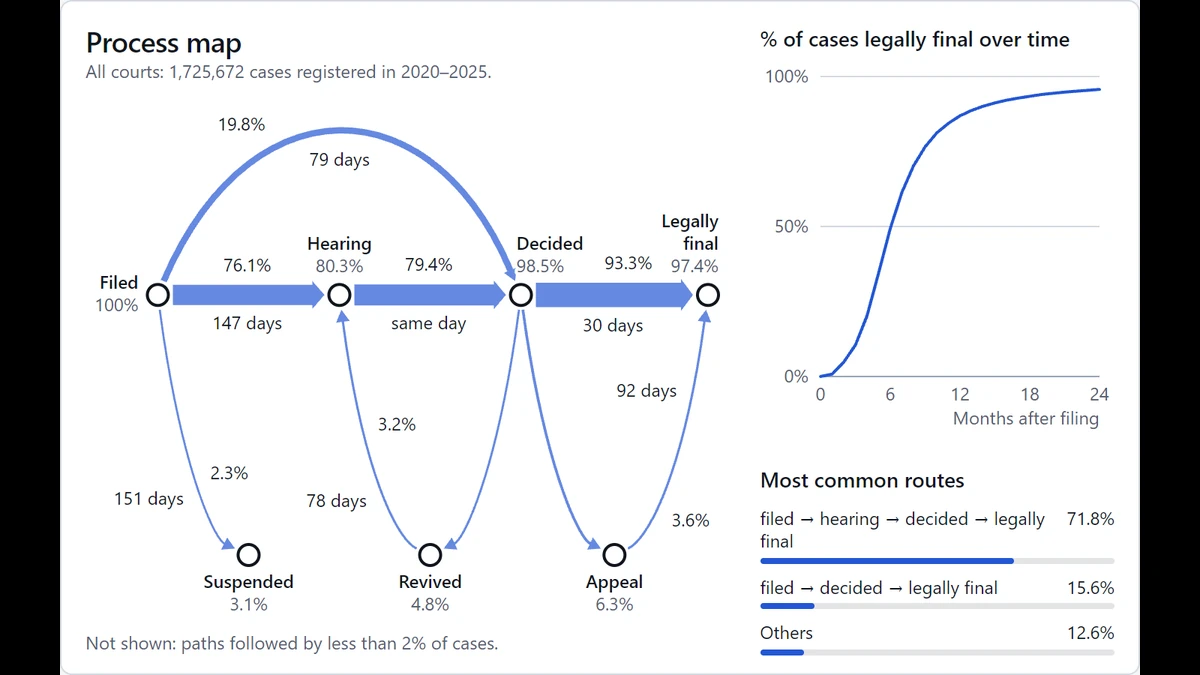
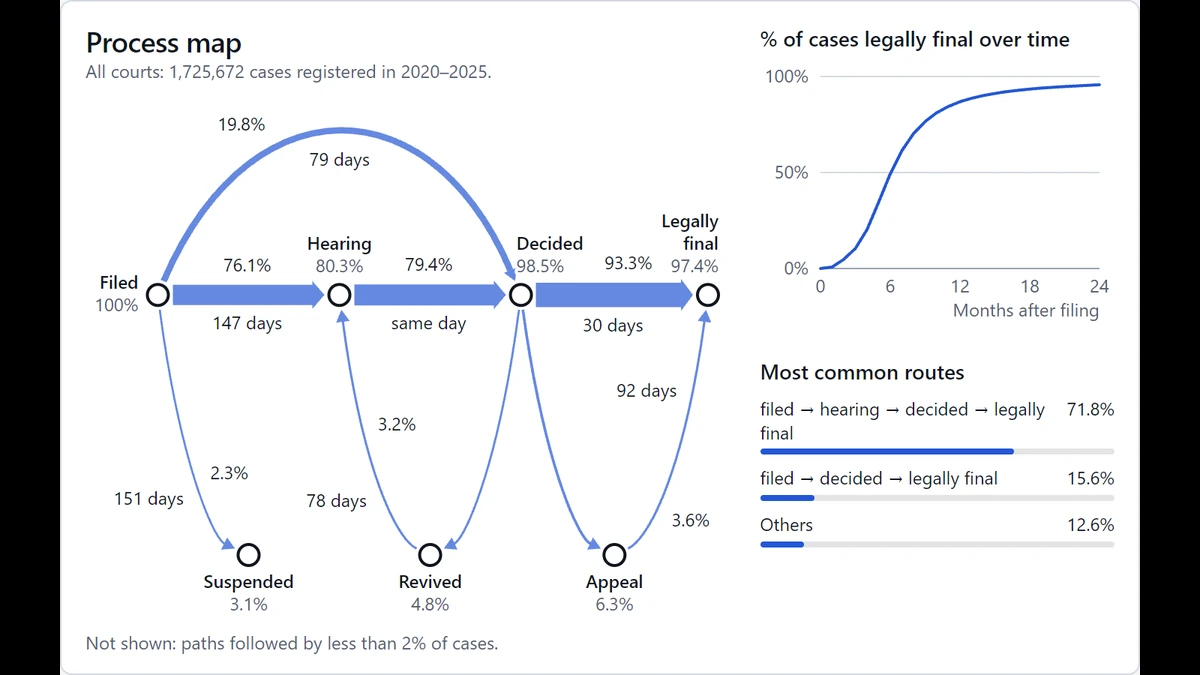
Process map: the curve in the top half of the column, with its vertical line back

diff --git a/demo/src/views/map.js b/demo/src/views/map.js
@@ -44,8 +44,8 @@ export function createMap(host, data) {
     h('div', { class: 'sd-map-flow' },
       h('div', { class: 'sd-case' }, h('p', { class: 'sd-case-title' }, 'Process map'), meta), mapBox, rest),
     h('div', { class: 'sd-curves' },
-      h('p', { class: 'sd-cal-title' }, '% of cases legally final over time'), legend, curveBox,
-      h('p', { class: 'sd-cal-title sd-routes-title', id: 'sd-routes-title' }, 'Most common routes'), routeList),
+      h('div', { class: 'sd-half' }, h('p', { class: 'sd-cal-title' }, '% of cases legally final over time'), legend, curveBox),
+      h('div', { class: 'sd-half' }, h('p', { class: 'sd-cal-title', id: 'sd-routes-title' }, 'Most common routes'), routeList)),
     table);
   host.append(el);
   let curve = null; // what reading the curve needs
@@ -308,8 +308,8 @@ export function createMap(host, data) {
     return { lines, x, y, reading, ticks, left: margin.left, right: width - margin.right };
   }
 
-  // Reading the curve: at the nearest month, a dot on each line and its value on the y axis, with a
-  // faint line between them. The axis's own labels make way.
+  // Reading the curve: at the nearest month, a line up the chart, a dot on each line and its value on the
+  // y axis, with a faint line between them. The axis's own labels make way.
   curveSvg.addEventListener('pointermove', (event) => {
     if (!curve) return;
     const box = curveSvg.getBoundingClientRect();
@@ -321,11 +321,12 @@ export function createMap(host, data) {
     const { x, y, lines, ticks, left } = curve;
     const values = lines.map(({ series, dot }) => ({ value: series[month], at: y(series[month]), dot }));
     const labels = spread(values.map(({ at }) => at), LINE);
-    curve.reading.replaceChildren(...values.flatMap(({ value, at, dot }, i) => [
-      s('line', { class: 'sd-reading-line', x1: left, x2: x(month), y1: at, y2: at }),
-      s('circle', { class: dot, cx: x(month), cy: at, r: 4 }),
-      s('text', { class: 'sd-reading-value', x: left - 8, y: labels[i], dy: '0.32em', 'text-anchor': 'end' }, describe.percent(value)),
-    ]));
+    curve.reading.replaceChildren(
+      s('line', { class: 'sd-cross-line', x1: x(month), x2: x(month), y1: y(1), y2: y(0) }),
+      ...values.map(({ at }) => s('line', { class: 'sd-reading-line', x1: left, x2: x(month), y1: at, y2: at })),
+      ...values.map(({ at, dot }) => s('circle', { class: dot, cx: x(month), cy: at, r: 4 })),
+      ...values.map(({ value }, i) => s('text', { class: 'sd-reading-value', x: left - 8, y: labels[i], dy: '0.32em', 'text-anchor': 'end' }, describe.percent(value))),
+    );
     for (const { tick, at } of ticks) tick.classList.toggle('is-under', labels.some((label) => Math.abs(label - at) < LINE));
   });
   curveSvg.addEventListener('pointerleave', clearReading);

diff --git a/demo/src/demo.css b/demo/src/demo.css
@@ -568,22 +568,24 @@
   min-height: 0;
 }
 
-/* The curve takes what the most common routes leave of the column. */
+/* The curve in the top half of the column, the most common routes in the bottom half, with room to spare. */
 [data-demo] .sd-curves {
+  display: grid;
+  grid-template-rows: minmax(0, 1fr) minmax(0, 1fr);
+  gap: var(--space-5);
+  min-width: 0;
+  min-height: 0;
+}
+
+[data-demo] .sd-half {
   display: flex;
   flex-direction: column;
   gap: var(--space-2);
-  min-width: 0;
   min-height: 0;
 }
 
 [data-demo] .sd-curve-box {
   flex: 1 1 0;
-  min-height: 7rem;
-}
-
-[data-demo] .sd-routes-title {
-  margin-top: var(--space-4);
 }
 
 [data-demo] .sd-routes {
@@ -763,6 +765,10 @@
 
   [data-demo] .sd-map-box {
     height: 24rem;
+  }
+
+  [data-demo] .sd-curves {
+    grid-template-rows: auto auto;
   }
 
   [data-demo] .sd-curve-box {

diff --git a/docs/plan.md b/docs/plan.md
@@ -284,7 +284,7 @@ Compare national and court intake with the Ministry of Justice's official statis
 | Forecast | Pick a court, then a real past case from its menu (or at random), or "Custom case", and give its filing date, its events and the date of the forecast. It shows the case's history so far and the chances it ends within 1, 3, 6 and 12 months. For a real case, it also shows what happened next. |
 | How well it does | Dropped from the demo on 2026-11-26 (Mark), with the "Show" switch it had: Mark may bring it back somewhere else. The export still carries the scores and calibration. |
 | Process map | A flow diagram of the stages a civil case passes through (Mark, 2026-11-26): the usual route along a row; filing to a decision in an arc over the hearing; suspensions, revivals and appeals each at the bottom of an arc below the row, between the stages they join. Only moves made by at least 2% of cases are drawn, each as wide as its share, with its share on one side and its median wait on the other, where they're plainly its own, and otherwise only on hover; a line under it says the rest aren't shown. Hovering an arrow dims everything but it, its labels and its two stages; hovering a stage, everything but its arrows. |
-| Share legally final, and routes | Beside the diagram, from the top of the stage: the share of cases legally final t months after filing, for the selected court against all courts (Mark, 2026-11-26: legally final only, not decided), read off the y axis on hover; and under it the routes taken by more than 5% of cases, each with a bar for its share, then all others together. |
+| Share legally final, and routes | Beside the diagram, from the top of the stage: in the top half, the share of cases legally final t months after filing, for the selected court against all courts (Mark, 2026-11-26: legally final only, not decided), read off the y axis on hover; and in the bottom half the routes taken by more than 5% of cases, each with a bar for its share, then all others together. |
 | Court selector | Two drop-downs, with no typing (Mark, 2026-11-26): the type of court (okresní, obvodní or městský soud), then its location, listing only that type's. The Process map also offers all courts; the Forecast tab always has a court. The selection is shared by the tabs. |
 | Courts (step 10) | A map of the district courts (see "Open questions" for areas or seats), coloured by the chosen measure: cases registered per year, backlog, or median time to a decision. Clicking a court selects it. |
 | Court panel (step 10) | For the selected court: exact intake by year beside the German tank estimate and its interval, and its backlog. |
@@ -907,13 +907,13 @@ Added with Mark on 2026-11-25, after the first four PRs: weighting recent traini
   - **The Process map, reworked with Mark the same day, in three rounds.**
     - **First round.** He found it a mess: arrows overlapping everywhere, a distracting hover, and two graphs that could be one, showing the share of cases that *are* legally final. He chose fewer, labelled arrows, from a sketch; a hover that dims the other arrows and their numbers, with no tooltip; and a graph of legally final only.
     - **Second round.** Straight arrows beside curved ones looked strange. Revived and appeal each went to the bottom of an arc below the row, so that decided → revived → hearing and decided → appeal → legally final curve as filing → decided does over the hearing, and suspended straight under filing. Mark chose appeal below the row rather than above, which keeps appeal → revived drawable. Each label is now split: the share on one side of its arrow and the wait on the other. The hover dims the other stages too. The graph was too tall and thin, so it took half the column, and the commonest routes (his pick of three ideas) the other half.
-    - **Third round.** The arc over the hearing was too high: it now rises about a fifth of its span (a third before), and the room goes to the arcs below. Where the map is crowded, as at the bottom right, an arrow's numbers show only on hover, so nobody has to work out which arrow they belong to. Hovering a stage lights all its arrows, and their numbers where they aren't too crowded. Suspended moved to the bottom of an arc between filing and the hearing, like revived and appeal (Mark changed his mind). The key went, as redundant, and the list of moves not drawn became Mark's line, "Not shown: paths followed by less than 2% of cases." The right column starts at the top of the stage, beside the heading, with more space before the routes, under the title "% of cases legally final over time" (his, with alternatives offered). Hovering the curve now shows only the percentage, on the y axis. "Commonest routes" became "Most common routes": those over 5% of cases, then "Others", last.
+    - **Third round.** The arc over the hearing was too high: it now rises about a fifth of its span (a third before), and the room goes to the arcs below. Where the map is crowded, as at the bottom right, an arrow's numbers show only on hover, so nobody has to work out which arrow they belong to. Hovering a stage lights all its arrows, and their numbers where they aren't too crowded. Suspended moved to the bottom of an arc between filing and the hearing, like revived and appeal (Mark changed his mind). The key went, as redundant, and the list of moves not drawn became Mark's line, "Not shown: paths followed by less than 2% of cases." The right column starts at the top of the stage, beside the heading, under the title "% of cases legally final over time" (his, with alternatives offered). The curve was still too tall and thin, so it takes the top half of the column and the routes the bottom half, with room to spare ("If there is extra whitespace that is a good thing"). Hovering the curve now shows the percentage on the y axis, with the vertical line kept (Mark: it was good). "Commonest routes" became "Most common routes": those over 5% of cases, then "Others", last.
     - **Arrows** are drawn only for moves made by at least 2% of cases (`journey.DRAWN`), and only between stages the layout can join without crossing another (`journey.shape`): straight along the rows, the arc over the hearing, and halves of the arcs below (`map.route`). A move and its reverse sit side by side. That's 9 of the country's 37 moves, and 4 to 12 at a court (median 9). Before the first round, every move of 0.5% or more was drawn, each bowed, so rare long moves crossed the stages: 18 nationally.
     - **The arcs:** the one over the hearing rises 0.22 of its span and the ones below dip half of theirs, up to 1.3 and 1.8 times that where the height allows (2 and 3 times on maps under 400 px wide, which need the room for labels), and the drawing is centred. Each half of an arc below reaches its bottom stage at a slope of about 25° rather than flat, so a line along the bottom row (appeal → revived, drawn at 34 courts) leaves it clear of them.
     - **Moves that would cross a stage** are left out with the rarer ones. Five reach 2% at some court: filed → appeal (13 courts, up to 4.8%), filed → revived (7), suspended → decided (6), appeal → hearing (6) and hearing → appeal (3), so at 22 courts Mark's line "less than 2%" isn't quite all of it; none nationally. Flagged to him. The hidden table still gives screen readers every move, with the middle half of its waits.
     - **Labels** (`map.place`): the share goes above its arrow (or on the left of an upright one) and the wait on the other side, each wherever along the arrow it clears the stages, the arrows and the labels placed before it, with its text measured in the browser; failing that, both on one side. They're shown all the time only if they also keep 8 px from other arrows' labels and are plainly the arrow's own (`map.nearer`): nearer it than any other arrow but its reverse, by 40 px beside a hairline, 2 px less for each px of the arrow's width, down to 12, since a thick arrow claims its labels more plainly. Otherwise they show only while the arrow is hovered, as clear of the other labels as they can be, and hide those they cover. A stage's hover shows those of its arrows' that clear the rest and are plainly their own among the arrows lit. On a touch screen, a tap lights an arrow or a stage and a tap elsewhere puts it back. Nationally at 1440 × 900, one arrow's numbers (decided → revived) wait for a hover; at a court, up to 3; at 390 px, most do.
     - **The routes:** the routes taken by more than 5% of cases (`journey.mostCommon`: 2 at 84 courts and nationally, 3 at 2), each with its share and a bar, "closed" or "still open" where they didn't end legally final, then "Others", the rest of the cases (each case takes one route). On a short stage the rarest listed join the others.
-    - **The curve's hover:** a dot on each line at the nearest month, a faint line to the y axis and the value there, nudged apart when the court's and all courts' are close, and the axis's own labels make way. No tooltip, and no month.
+    - **The curve's hover:** a vertical line at the nearest month, a dot on each line there, a faint line to the y axis and the value there, nudged apart when the court's and all courts' are close, and the axis's own labels make way. No tooltip.
     - **Checked** on the site's preview at 1440 × 900, 1366 × 650 (the smallest stage, whose map is now 544 × 265) and at 390 px, with a touch screen, for all courts, Děčín, Hradec Králové and Prague 2 (10 arrows, with decided → appeal at 24.4% and appeal → decided at 4.4% side by side). No text overlaps, and no console errors.
     - **The stills** of the map are shot at 720 × 450 for the thumbnail and 800 × 420 for the link preview (576 × 360 and 640 × 336 before the rework), since the old sizes were smaller than the site ever shows the map, and reshot after each round. The script waits for the map's stages.
   - **No status line under the demo** (Mark, 2026-11-26: the text under the demo was redundant). It's for screen readers only on both tabs, and the stage takes its room on wide frames, up to the manifest's 560 px. Its numbers are in the views: the Forecast tab's tiles, and the map's header.
